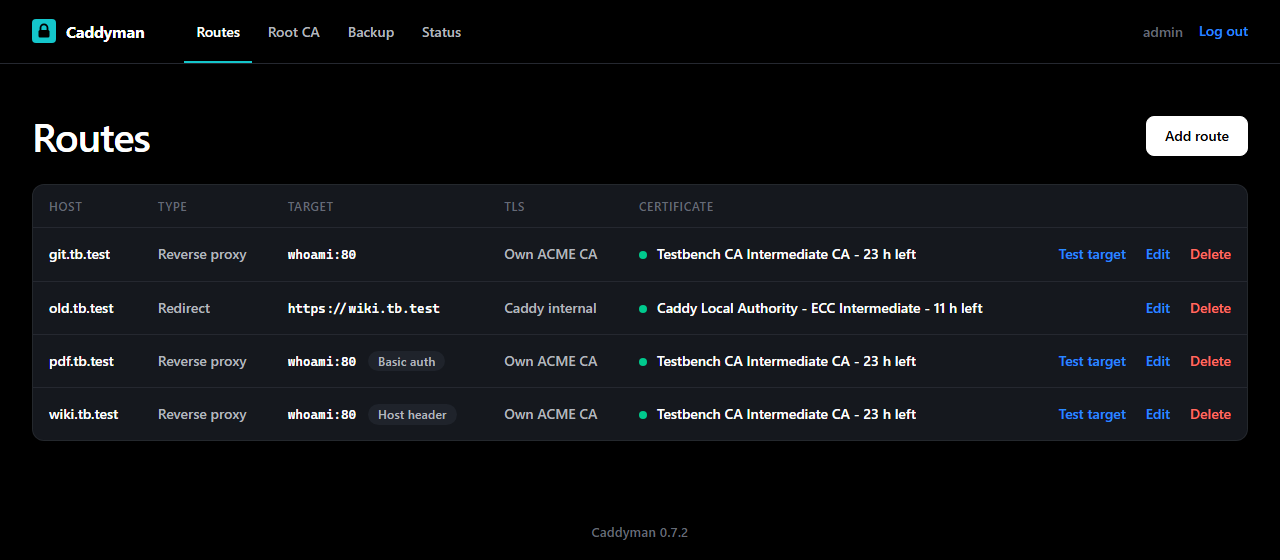
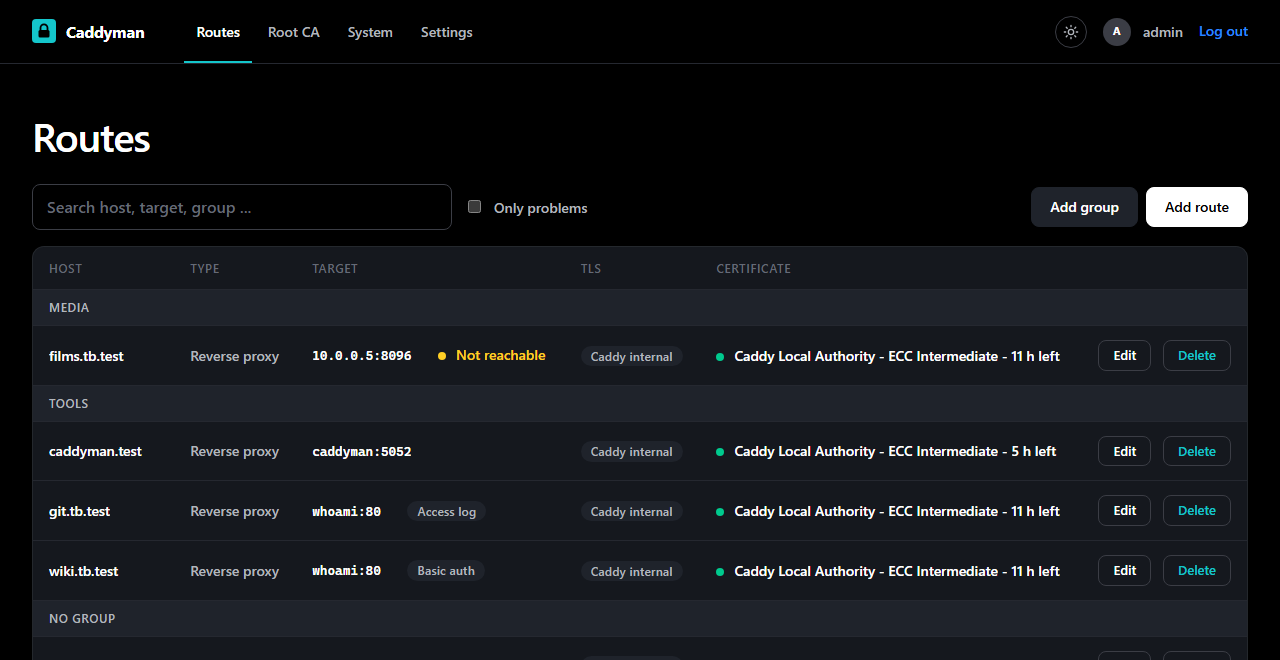
fix: root CA page follows the switch for the open page again; docs: new screenshots, the two root CA switches

diff --git a/app/templates/ca.html b/app/templates/ca.html
@@ -48,7 +48,7 @@
 
 {% if not shown %}
 <section>
-	{% if host.get("public_ca", "1") %}
+	{% if open_page %}
 	<h2>For people without a login</h2>
 	<p class="empty">The page <a href="/trust">/trust</a> and the download work without logging in. Send the link, and
 		give {{ "these check codes" if many else "this check code" }} another way, in person or on the phone:</p>

diff --git a/tests/test_main.py b/tests/test_main.py
@@ -952,7 +952,12 @@ class TestCa(RouteTest):
         self.client.post("/settings/security", data={"public_ca": "1"})
         self.assertNotIn('href="/trust"', guest.get("/login").text)
         self.assertEqual(guest.get("/trust").status_code, 200)  # only the card is gone
+        self.assertIn("For people without a login", self.client.get("/ca").text)
         self.client.post("/settings/security", data={"login_ca_hint": "1"})
+        # With the open page switched off the admin page says so instead of sending people to it.
+        closed = self.client.get("/ca").text
+        self.assertIn("<h2>Check code</h2>", closed)
+        self.assertNotIn("For people without a login", closed)
         self.assertNotIn('href="/trust"', guest.get("/login").text)
         for path in main.PUBLIC_PATHS:
             self.assertEqual(guest.get(path).headers["location"], "/login")

diff --git a/app/main.py b/app/main.py
@@ -2269,7 +2269,8 @@ def ca_page(request: Request, cert: int = 1):
     hosts, current = pick_host()
     if current is None:
         return RedirectResponse("/hosts/new", status_code=303)
-    return page(request, "ca.html", hosts=hosts, **ca_context(current, cert=cert))
+    # Whether /trust is open decides what the page tells the admin to pass on.
+    return page(request, "ca.html", hosts=hosts, open_page=flag("public_ca"), **ca_context(current, cert=cert))
 
 
 @app.get("/trust")

diff --git a/README.md b/README.md
@@ -12,7 +12,8 @@ A web interface for Caddy routes that works with your own ACME CA, such as
 - **Routes:** reverse proxy, redirect or static files, with optional basic auth
 - **TLS per route:** your own ACME CA, Caddy's default, Caddy's internal CA, or none
 - **Certificate check:** shows who issued what each route really serves, and when it expires
-- **Root CA page:** download, fingerprints and import steps for Windows, Debian and Firefox
+- **Root CA page:** download, fingerprints, a check code to pass on by voice, and import steps
+  for Windows, macOS, Debian, iPhone, Android and Firefox; open without a login at `/trust`
 - **Logs:** Caddy's log, live and filterable, to see why a certificate did not arrive; rotated
   files too, and an access log per route for the routes that ask for one
 - **Backup:** all routes as a ZIP, with a preview before a restore writes anything
@@ -112,6 +113,11 @@ the route list and the status page. The change log on the status page names who 
 Every account can switch on two-factor login in its profile: scan the QR code with an
 authenticator app, keep the recovery codes. Whoever manages users can switch it off again for
 somebody who lost both. "Settings", "Security" makes it a must for every account.
+
+The same block has two switches for the root certificate. "Offer the root CA without a login"
+opens `/trust` and the download to everybody who can reach Caddyman; the people who need the
+certificate are the ones without an account. "Point to the root CA on the login page" shows a
+card below the login form that leads there. Both are on by default.
 
 "Forgot password?" on the login page mails a link that works once and for one hour. It appears
 once a mail server is entered under "Settings", "Mail", and reaches accounts that have an
